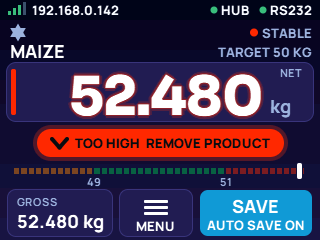
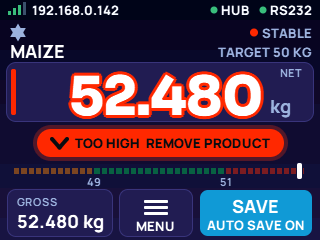
feat(wsoft-ui): big Aurora numbers with a thick zone-colour outline
Rhyno, 22 Nov 2026: numbers as big as the under-range screen, and the
orange/green/red outline thicker and brighter. HUGE font when it fits, and
eight full-colour copies 3 px round the white numbers.

Claude-Session: https://claude.ai/code/session_017CMFYso2TL2A6k5GrQCT9v

Changed region(s): [[0.1875, 0.2917, 0.8438, 0.4958], [0.7188, 0.2917, 0.8125, 0.35]]

diff --git a/interface/src/project/wsoft/gen/wsoftScreen.js b/interface/src/project/wsoft/gen/wsoftScreen.js
@@ -584,6 +584,8 @@ const WsoftUi = (() => {
     c.text(c.fit(m.product, MID, 312 - tw - 12 - 10), 10, 51, MID, P.ink, LEFT);
   }
 
+  // Where the outline copies of the weight go: 3 px all round.
+  const OUTLINE = [[-3, 0], [3, 0], [0, -3], [0, 3], [-2, -2], [2, -2], [-2, 2], [2, 2]];
   function paintWeightColour(c, m, T) {
     let bg = T.bg, ink = m.live ? T.ink : T.soft, soft = T.soft;
     if (m.zone !== ZONE_NONE) {
@@ -602,12 +604,13 @@ const WsoftUi = (() => {
     // Aurora's card: the weight sits inside it with room to spare.
     if (m.zone !== ZONE_NONE && colourSet(m, T).card) {
       c.text(m.label, 302, 73, TINY, soft, RIGHT);
-      // A soft glow of the zone colour round the numbers (Rhyno, 22 Nov 2026).
-      const role = c.width(m.weight, HERO) <= 236 ? HERO : BIG, P = colourSet(m, T), halo = blend(P.w_bg, P.strip, 55), core = blend(P.w_bg, P.strip, 120);
-      for (const [dx, dy] of [[-3, 0], [3, 0], [0, -3], [0, 3]]) c.text(m.weight, 264 + dx, 94 + dy, role, halo, RIGHT);
-      for (const [dx, dy] of [[-1, -1], [1, -1], [-1, 1], [1, 1]]) c.text(m.weight, 264 + dx, 94 + dy, role, core, RIGHT);
-      c.text(m.weight, 264, 94, role, ink, RIGHT);
-      c.text(m.unit, 270, 106, MID, soft, LEFT);
+      // Big numbers with a thick outline in the full zone colour (Rhyno, 22 Nov 2026: "as big as
+      // under range", outline "thicker", "brighter").
+      const P = colourSet(m, T), huge = c.width(m.weight, HUGE) <= 256;
+      const role = huge ? HUGE : c.width(m.weight, HERO) <= 236 ? HERO : BIG, x = huge ? 280 : 264, y = huge ? 92 : 94;
+      for (const [dx, dy] of OUTLINE) c.text(m.weight, x + dx, y + dy, role, P.strip, RIGHT);
+      c.text(m.weight, x, y, role, ink, RIGHT);
+      c.text(m.unit, x + 6, huge ? 109 : 106, MID, soft, LEFT);
       return;
     }
     if (c.width(m.label, TINY) <= 24 && c.width(m.weight, HUGE) <= 270) {

diff --git a/tools/wsoft-ui/ref.js b/tools/wsoft-ui/ref.js
@@ -582,6 +582,8 @@ const WsoftUi = (() => {
     c.text(c.fit(m.product, MID, 312 - tw - 12 - 10), 10, 51, MID, P.ink, LEFT);
   }
 
+  // Where the outline copies of the weight go: 3 px all round.
+  const OUTLINE = [[-3, 0], [3, 0], [0, -3], [0, 3], [-2, -2], [2, -2], [-2, 2], [2, 2]];
   function paintWeightColour(c, m, T) {
     let bg = T.bg, ink = m.live ? T.ink : T.soft, soft = T.soft;
     if (m.zone !== ZONE_NONE) {
@@ -600,12 +602,13 @@ const WsoftUi = (() => {
     // Aurora's card: the weight sits inside it with room to spare.
     if (m.zone !== ZONE_NONE && colourSet(m, T).card) {
       c.text(m.label, 302, 73, TINY, soft, RIGHT);
-      // A soft glow of the zone colour round the numbers (Rhyno, 22 Nov 2026).
-      const role = c.width(m.weight, HERO) <= 236 ? HERO : BIG, P = colourSet(m, T), halo = blend(P.w_bg, P.strip, 55), core = blend(P.w_bg, P.strip, 120);
-      for (const [dx, dy] of [[-3, 0], [3, 0], [0, -3], [0, 3]]) c.text(m.weight, 264 + dx, 94 + dy, role, halo, RIGHT);
-      for (const [dx, dy] of [[-1, -1], [1, -1], [-1, 1], [1, 1]]) c.text(m.weight, 264 + dx, 94 + dy, role, core, RIGHT);
-      c.text(m.weight, 264, 94, role, ink, RIGHT);
-      c.text(m.unit, 270, 106, MID, soft, LEFT);
+      // Big numbers with a thick outline in the full zone colour (Rhyno, 22 Nov 2026: "as big as
+      // under range", outline "thicker", "brighter").
+      const P = colourSet(m, T), huge = c.width(m.weight, HUGE) <= 256;
+      const role = huge ? HUGE : c.width(m.weight, HERO) <= 236 ? HERO : BIG, x = huge ? 280 : 264, y = huge ? 92 : 94;
+      for (const [dx, dy] of OUTLINE) c.text(m.weight, x + dx, y + dy, role, P.strip, RIGHT);
+      c.text(m.weight, x, y, role, ink, RIGHT);
+      c.text(m.unit, x + 6, huge ? 109 : 106, MID, soft, LEFT);
       return;
     }
     if (c.width(m.label, TINY) <= 24 && c.width(m.weight, HUGE) <= 270) {

diff --git a/test/test_wsoft_ui/golden.h b/test/test_wsoft_ui/golden.h
@@ -4,5 +4,5 @@
 
 #include <stdint.h>
 
-static const uint32_t GOLDEN_1X[] = {0x2EED3E39, 0xCB8630B6, 0x13C357CE, 0x1EF07A5D, 0x0CD5396A, 0xB3EDC79C, 0x4042B08A, 0x0169D3E2, 0x91E90C57, 0xFDF178CC, 0x9669DC47, 0x26D96EE3, 0x205B387A, 0xC8444119, 0x2D1F0669, 0x6BB1E900, 0x1E099634, 0xA7C846C0, 0x29F2D94F, 0x217565AE, 0xFFB61478, 0xCE17ED72, 0x29601460, 0x91CC4766, 0xC81A18F3, 0x2245DA02, 0xA5CD9DD1, 0x590DC4BD, 0x348DD9B5, 0xC7C05F26, 0x91604E14, 0x9143CF4B, 0x8F0AD434, 0x301B8844, 0x7B7A81E0, 0xA4D2F3BD, 0xD1BBC01F, 0xBD04EBC5, 0x8A6FF48C, 0x97CC09C8, 0x55A34D7F, 0x2A4D5EA5, 0x3817A669, 0xFBD72C38, 0xD09FC023, 0xCDD0EA2C, 0x06F4267C, 0xA1297F5A, 0xA081F4C9, 0xCA67513E, 0x155F0C53, 0xB209D8DE, 0x9D2A6727, 0xB3AC8B8F, 0x474DA559, 0xCD87CF7F};
-static const uint32_t GOLDEN_2X[] = {0x2CB597FA, 0xEE8355B3, 0x3DF3B986, 0xBB07AA83, 0x561022F2, 0x8AF27F6C, 0x087B2AE7, 0x6FA89258, 0x856FCB6E, 0x328374DB, 0x0C066F48, 0x8241D678, 0xCC0B4B47, 0x1A5164EE, 0x7C95CEA0, 0x3A34EC60, 0x63F98DCA, 0x6F641277, 0x9B7D4A8C, 0x3944787F, 0x54E248B5, 0x40334849, 0x7E49473E, 0x69F2874B, 0x1A43A21B, 0xA003525E, 0xAD3C0C0B, 0x180C86C7, 0xC9CC2C59, 0x8DA7A98B, 0xD2A470AE, 0x1E0464B0, 0xF6FDF021, 0xE432A2A4, 0x513400BD, 0x2BD78FD9, 0x767352B8, 0x9E6B1D74, 0x2357EC97, 0x31DC200B, 0x091BCA9E, 0x1912BD4B, 0x5AFF1D91, 0x605D8B1D, 0x0C1DE447, 0xCD0E739D, 0x4114731D, 0x0DB2086F, 0xEF58C3AE, 0x4D9B6EF7, 0x07E42EB8, 0x3B1B2A93, 0x693C7C78, 0xF3E93928, 0x78B24497, 0xFFE3EF41};
+static const uint32_t GOLDEN_1X[] = {0x2EED3E39, 0xCB8630B6, 0x13C357CE, 0x1EF07A5D, 0x0CD5396A, 0xB3EDC79C, 0x4042B08A, 0x0169D3E2, 0x91E90C57, 0xFDF178CC, 0x9669DC47, 0x26D96EE3, 0x205B387A, 0xC8444119, 0x2D1F0669, 0x6BB1E900, 0x1E099634, 0xA7C846C0, 0x29F2D94F, 0x217565AE, 0xFFB61478, 0xCE17ED72, 0x29601460, 0x91CC4766, 0xC81A18F3, 0x2245DA02, 0xA5CD9DD1, 0x590DC4BD, 0xF199B32D, 0x5EAB980D, 0x080A5FD1, 0x08280860, 0x4A1EBEAC, 0xF50FE2DC, 0x7B7A81E0, 0xC91DEA67, 0x7E3C9985, 0xBD04EBC5, 0x8A6FF48C, 0x97CC09C8, 0x55A34D7F, 0x2A4D5EA5, 0x3817A669, 0xFBD72C38, 0xD09FC023, 0xCDD0EA2C, 0x06F4267C, 0x643D15C2, 0xA081F4C9, 0xCA67513E, 0x155F0C53, 0xB209D8DE, 0x9D2A6727, 0x76B8E117, 0x474DA559, 0xCD87CF7F};
+static const uint32_t GOLDEN_2X[] = {0x2CB597FA, 0xEE8355B3, 0x3DF3B986, 0xBB07AA83, 0x561022F2, 0x8AF27F6C, 0x087B2AE7, 0x6FA89258, 0x856FCB6E, 0x328374DB, 0x0C066F48, 0x8241D678, 0xCC0B4B47, 0x1A5164EE, 0x7C95CEA0, 0x3A34EC60, 0x63F98DCA, 0x6F641277, 0x9B7D4A8C, 0x3944787F, 0x54E248B5, 0x40334849, 0x7E49473E, 0x69F2874B, 0x1A43A21B, 0xA003525E, 0xAD3C0C0B, 0x180C86C7, 0x716A12D8, 0xAB1E2F78, 0xA01D40B3, 0x38BDE243, 0x4E5BCEA0, 0x5C949C25, 0x513400BD, 0x6872675A, 0x9407D5A7, 0x9E6B1D74, 0x2357EC97, 0x31DC200B, 0x091BCA9E, 0x1912BD4B, 0x5AFF1D91, 0x605D8B1D, 0x0C1DE447, 0xCD0E739D, 0x4114731D, 0xB51436EE, 0xEF58C3AE, 0x4D9B6EF7, 0x07E42EB8, 0x3B1B2A93, 0x693C7C78, 0x4B4F07A9, 0x78B24497, 0xFFE3EF41};

diff --git a/lib/wsoft_core/src/wsoft_ui_paint.cpp b/lib/wsoft_core/src/wsoft_ui_paint.cpp
@@ -429,16 +429,16 @@ static void paint_weight_colour(WsoftCanvas &c, const WsoftUiModel &m, const The
   // Aurora's card: the weight sits inside it with room to spare.
   if (m.zone != WSOFT_UI_ZONE_NONE && colour_set(m, T).card) {
     c.text(m.label, 302, 73, TINY, soft, WSOFT_RIGHT);
-    // A soft glow of the zone colour round the numbers (Rhyno, 22 Nov 2026).
-    const int role = c.width(m.weight, HERO) <= 236 ? HERO : BIG;
+    // Big numbers with a thick outline in the full zone colour (Rhyno, 22 Nov 2026: "as big as
+    // under range", outline "thicker", "brighter").
     const ColourSet P = colour_set(m, T);
-    const uint16_t halo = wsoft_blend565(P.w_bg, P.strip, 55), core = wsoft_blend565(P.w_bg, P.strip, 120);
-    static const int8_t outer[4][2] = {{-3, 0}, {3, 0}, {0, -3}, {0, 3}};
-    static const int8_t inner[4][2] = {{-1, -1}, {1, -1}, {-1, 1}, {1, 1}};
-    for (const auto &o : outer) c.text(m.weight, 264 + o[0], 94 + o[1], role, halo, WSOFT_RIGHT);
-    for (const auto &o : inner) c.text(m.weight, 264 + o[0], 94 + o[1], role, core, WSOFT_RIGHT);
-    c.text(m.weight, 264, 94, role, ink, WSOFT_RIGHT);
-    c.text(m.unit, 270, 106, MID, soft);
+    const bool huge = c.width(m.weight, HUGE_) <= 256;
+    const int role = huge ? HUGE_ : c.width(m.weight, HERO) <= 236 ? HERO : BIG;
+    const double x = huge ? 280 : 264, y = huge ? 92 : 94;
+    static const int8_t outline[8][2] = {{-3, 0}, {3, 0}, {0, -3}, {0, 3}, {-2, -2}, {2, -2}, {-2, 2}, {2, 2}};
+    for (const auto &o : outline) c.text(m.weight, x + o[0], y + o[1], role, P.strip, WSOFT_RIGHT);
+    c.text(m.weight, x, y, role, ink, WSOFT_RIGHT);
+    c.text(m.unit, x + 6, huge ? 109 : 106, MID, soft);
     return;
   }
   if (c.width(m.label, TINY) <= 24 && c.width(m.weight, HUGE_) <= 270) {
